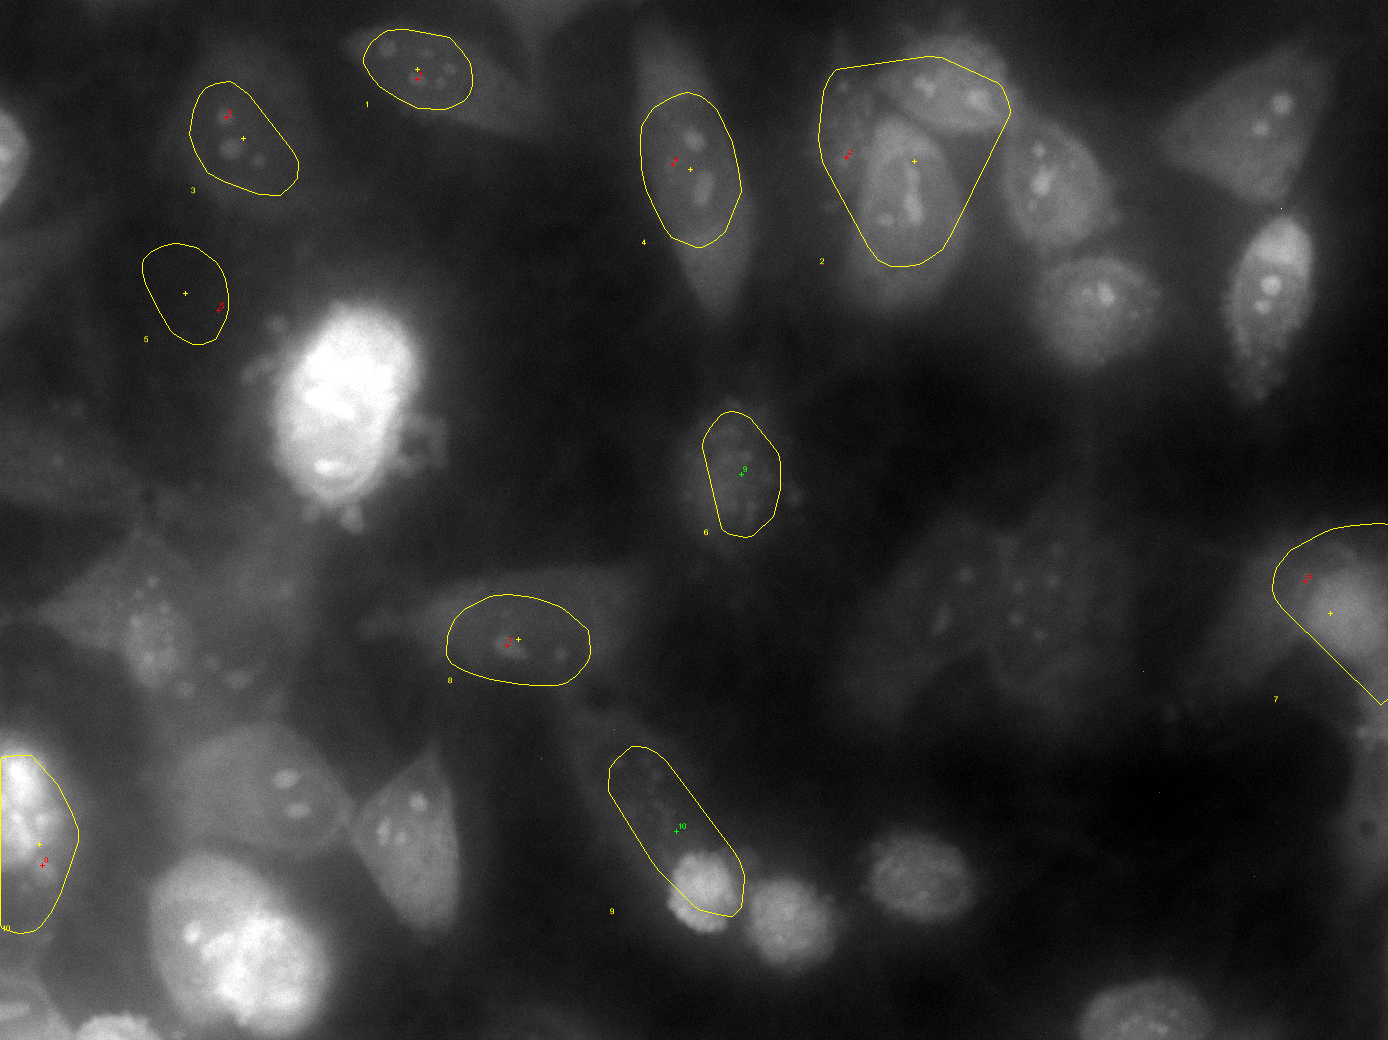
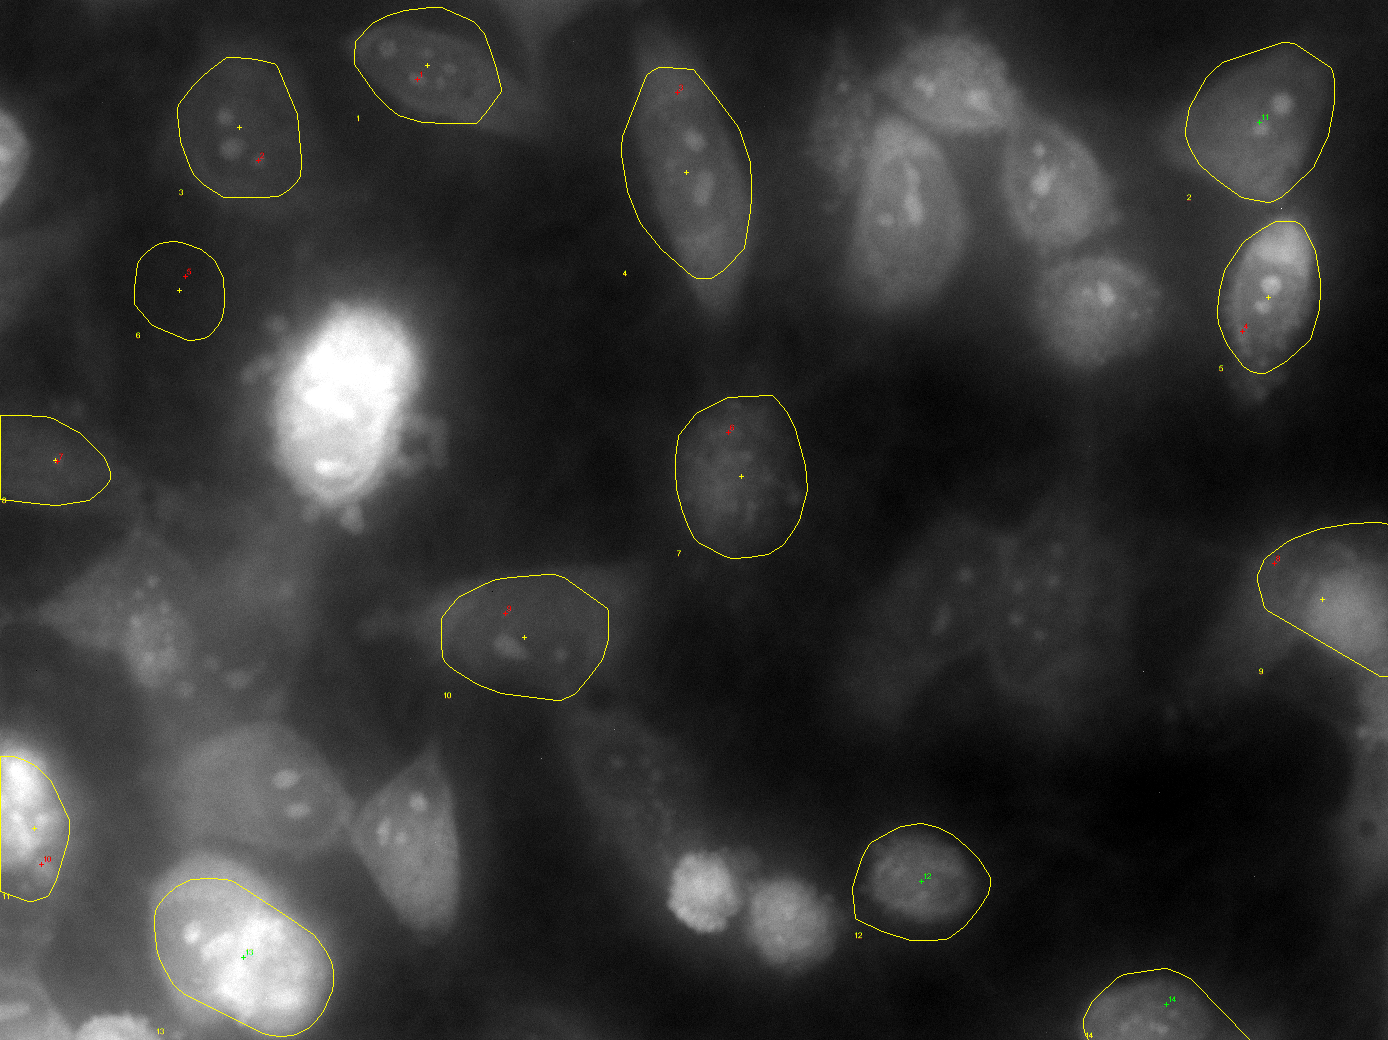
workson  #35

diff --git a/src/model/targetdetection/ImprovedImageJTargetFinder.java b/src/model/targetdetection/ImprovedImageJTargetFinder.java
@@ -7,6 +7,7 @@ import ij.ImagePlus;
 import ij.gui.Roi;
 import ij.measure.Measurements;
 import ij.measure.ResultsTable;
+import ij.plugin.ImageCalculator;
 import ij.plugin.filter.ParticleAnalyzer;
 import ij.plugin.frame.RoiManager;
 import ij.process.AutoThresholder.Method;
@@ -21,16 +22,20 @@ import controller.configuration.NuFiConfiguration;
 
 public class ImprovedImageJTargetFinder extends SessionBasedObject implements TargetFinder {
 
+	private final static String DIVIDE = "div";
+
 	private final NuFiConfiguration configuration;
 	private final List<TargetPoint> nucleoliTargets;
 	private final List<TargetPoint> nucleiTargets;
 	private Roi[] rois;
+	private final ImageCalculator calculator;
 
 	public ImprovedImageJTargetFinder(final BasicSession session, final NuFiConfiguration configuration) {
 		super(session);
 		this.configuration = configuration;
 		this.nucleoliTargets = new LinkedList<>();
 		this.nucleiTargets = new LinkedList<>();
+		this.calculator = new ImageCalculator();
 	}
 
 	@Override
@@ -43,6 +48,11 @@ public class ImprovedImageJTargetFinder extends SessionBasedObject implements Ta
 
 	private RoiManager findRoisIn(final NuFiImage image) {
 		final ImagePlus channel3 = IJ.openImage(image.getChannel3().getAbsolutePath());
+		ImagePlus background = channel3.duplicate();
+		background.getProcessor().blurGaussian(this.configuration.getNucleusBackgroundBlur());
+		this.calculator.run(DIVIDE, channel3, background);
+		channel3.getProcessor().multiply(178d);
+		channel3.getProcessor().blurGaussian(this.configuration.getNucleusThresholdingBlur());
 		channel3.getProcessor().setAutoThreshold(Method.Default, true);
 		final RoiManager manager = new RoiManager(true);
 		final ResultsTable table = new ResultsTable();
@@ -50,7 +60,7 @@ public class ImprovedImageJTargetFinder extends SessionBasedObject implements Ta
 		final int measurements = 0;
 		ParticleAnalyzer.setResultsTable(table);
 		ParticleAnalyzer.setRoiManager(manager);
-		final ParticleAnalyzer analyzer = new ParticleAnalyzer(options, measurements, table, 5000d, 25000d);
+		final ParticleAnalyzer analyzer = new ParticleAnalyzer(options, measurements, table, this.configuration.getMinimumNucleusSize(), this.configuration.getMaximumNucleusSize());
 		final boolean analysisResult = analyzer.analyze(channel3);
 		logger().info("Particle analysis result: " + analysisResult);
 		logger().info("Particle analysis found " + manager.getCount() + " ROIs.");
@@ -74,6 +84,11 @@ public class ImprovedImageJTargetFinder extends SessionBasedObject implements Ta
 		final int xOffset = (int) roiBounds.getX();
 		final int yOffset = (int) roiBounds.getY();
 		final ImagePlus workingImage = channel1.duplicate();
+		ImagePlus background = workingImage.duplicate();
+		background.getProcessor().blurGaussian(this.configuration.getNucleolusBackgroundBlur());
+		this.calculator.run("", workingImage, background);
+
+		workingImage.getProcessor().blurGaussian(this.configuration.getNucleolusThresholdingBlur());
 		roiManager.select(workingImage, indexOfRoi);
 		workingImage.getProcessor().setAutoThreshold(Method.MaxEntropy, true);
 		final ResultsTable roiResults = new ResultsTable();

diff --git a/src/controller/configuration/NuFiConfiguration.java b/src/controller/configuration/NuFiConfiguration.java
@@ -41,20 +41,48 @@ public class NuFiConfiguration {
 		return fileBuilder.getNuFiImage();
 	}
 
+	public int getMinimumNucleusSize() {
+		final int defaultSize = Integer.valueOf(getProperty(NuFiConfigurationConstants.NUCLEUS_AVERAGE_SIZE));
+		final double minFactor = Double.valueOf(getProperty(NuFiConfigurationConstants.NUCLEUS_MIN_SIZE_FACTOR));
+		return (int) (defaultSize * minFactor);
+	}
+
+	public int getMaximumNucleusSize() {
+		final int defaultSize = Integer.valueOf(getProperty(NuFiConfigurationConstants.NUCLEUS_AVERAGE_SIZE));
+		final double maxFactor = Double.valueOf(getProperty(NuFiConfigurationConstants.NUCLEUS_MAX_SIZE_FACTOR));
+		return (int) (defaultSize * maxFactor);
+	}
+
 	public int getMinimumNucleolusSize() {
 		final int defaultSize = Integer.valueOf(getProperty(NuFiConfigurationConstants.NUCLEOLUS_AVERAGE_SIZE));
-		final int minPercentage = Integer.valueOf(getProperty(NuFiConfigurationConstants.NUCLEOLUS_MIN_SIZE_PERCENTAGE));
-		return (int) (defaultSize * (minPercentage / 100f));
+		final double minFactor = Double.valueOf(getProperty(NuFiConfigurationConstants.NUCLEOLUS_MIN_SIZE_FACTOR));
+		return (int) (defaultSize * minFactor);
 	}
 
 	public int getMaximumNucleolusSize() {
 		final int defaultSize = Integer.valueOf(getProperty(NuFiConfigurationConstants.NUCLEOLUS_AVERAGE_SIZE));
-		final int maxPercentage = Integer.valueOf(getProperty(NuFiConfigurationConstants.NUCLEOLUS_MAX_SIZE_PERCENTAGE));
-		return (int) (defaultSize * (maxPercentage / 100f));
+		final double maxFactor = Double.valueOf(getProperty(NuFiConfigurationConstants.NUCLEOLUS_MAX_SIZE_FACTOR));
+		return (int) (defaultSize * maxFactor);
 	}
 
 	public int getInDepthRange() {
 		return Integer.valueOf(getProperty(NuFiConfigurationConstants.IN_DEPTH_RANGE));
+	}
+
+	public double getNucleusBackgroundBlur() {
+		return Double.valueOf(getProperty(NuFiConfigurationConstants.NUCLEUS_BACKGROUND_BLUR));
+	}
+
+	public double getNucleusThresholdingBlur() {
+		return Double.valueOf(getProperty(NuFiConfigurationConstants.NUCLEUS_THRESHOLDING_BLUR));
+	}
+
+	public double getNucleolusBackgroundBlur() {
+		return Double.valueOf(getProperty(NuFiConfigurationConstants.NUCLEOLUS_BACKGROUND_BLUR));
+	}
+
+	public double getNucleolusThresholdingBlur() {
+		return Double.valueOf(getProperty(NuFiConfigurationConstants.NUCLEOLUS_THRESHOLDING_BLUR));
 	}
 
 	public String getProperty(final String key) {

diff --git a/src/controller/configuration/NuFiConfigurationConstants.java b/src/controller/configuration/NuFiConfigurationConstants.java
@@ -9,11 +9,19 @@ public interface NuFiConfigurationConstants {
 	public final static String USED_CHANNELS = "used.channels";
 	public final static String CHANNEL_FILETYPE = "channel.filetype";
 	public final static String CHANNEL_SEPARATOR = ",";
+	public final static String NUCLEUS_AVERAGE_SIZE = "nucleus.average";
+	public final static String NUCLEUS_MIN_SIZE_FACTOR = "nucleus.min.factor";
+	public final static String NUCLEUS_MAX_SIZE_FACTOR = "nucleus.max.factor";
 	public final static String NUCLEOLUS_AVERAGE_SIZE = "nucleolus.average";
-	public final static String NUCLEOLUS_MIN_SIZE_PERCENTAGE = "nucleolus.min";
-	public final static String NUCLEOLUS_MAX_SIZE_PERCENTAGE = "nucleolus.max";
+	public final static String NUCLEOLUS_MIN_SIZE_FACTOR = "nucleolus.min.factor";
+	public final static String NUCLEOLUS_MAX_SIZE_FACTOR = "nucleolus.max.factor";
 	public static final String IN_DEPTH_RANGE = "indepth.range";
+	public static final String NUCLEUS_BACKGROUND_BLUR = "nucleus.background.blur";
+	public static final String NUCLEUS_THRESHOLDING_BLUR = "nucleus.thresholding.blur";
+	public static final String NUCLEOLUS_BACKGROUND_BLUR = "nucleolus.background.blur";
+	public static final String NUCLEOLUS_THRESHOLDING_BLUR = "nucleolus.thresholding.blur";
 
-	public final static List<String> MANDATORY_ENTRIES = Arrays.asList(SOURCE_FOLDER, USED_CHANNELS, CHANNEL_FILETYPE, NUCLEOLUS_AVERAGE_SIZE, NUCLEOLUS_MIN_SIZE_PERCENTAGE,
-			NUCLEOLUS_MAX_SIZE_PERCENTAGE, IN_DEPTH_RANGE);
+	public final static List<String> MANDATORY_ENTRIES = Arrays.asList(SOURCE_FOLDER, USED_CHANNELS, CHANNEL_FILETYPE, NUCLEUS_AVERAGE_SIZE, NUCLEUS_MIN_SIZE_FACTOR, NUCLEUS_MAX_SIZE_FACTOR,
+			NUCLEOLUS_AVERAGE_SIZE, NUCLEOLUS_MIN_SIZE_FACTOR, NUCLEOLUS_MAX_SIZE_FACTOR, IN_DEPTH_RANGE, NUCLEUS_BACKGROUND_BLUR, NUCLEUS_THRESHOLDING_BLUR, NUCLEOLUS_BACKGROUND_BLUR,
+			NUCLEOLUS_THRESHOLDING_BLUR);
 }

diff --git a/src/model/targetdetection/ImagejTargetFinder.java b/src/model/targetdetection/ImagejTargetFinder.java
@@ -50,7 +50,7 @@ public class ImagejTargetFinder extends SessionBasedObject implements TargetFind
 		final int measurements = 0;
 		ParticleAnalyzer.setResultsTable(table);
 		ParticleAnalyzer.setRoiManager(manager);
-		final ParticleAnalyzer analyzer = new ParticleAnalyzer(options, measurements, table, 5000d, 25000d);
+		final ParticleAnalyzer analyzer = new ParticleAnalyzer(options, measurements, table, this.configuration.getMinimumNucleusSize(), this.configuration.getMaximumNucleusSize());
 		final boolean analysisResult = analyzer.analyze(channel3);
 		logger().info("Particle analysis result: " + analysisResult);
 		logger().info("Particle analysis found " + manager.getCount() + " ROIs.");
